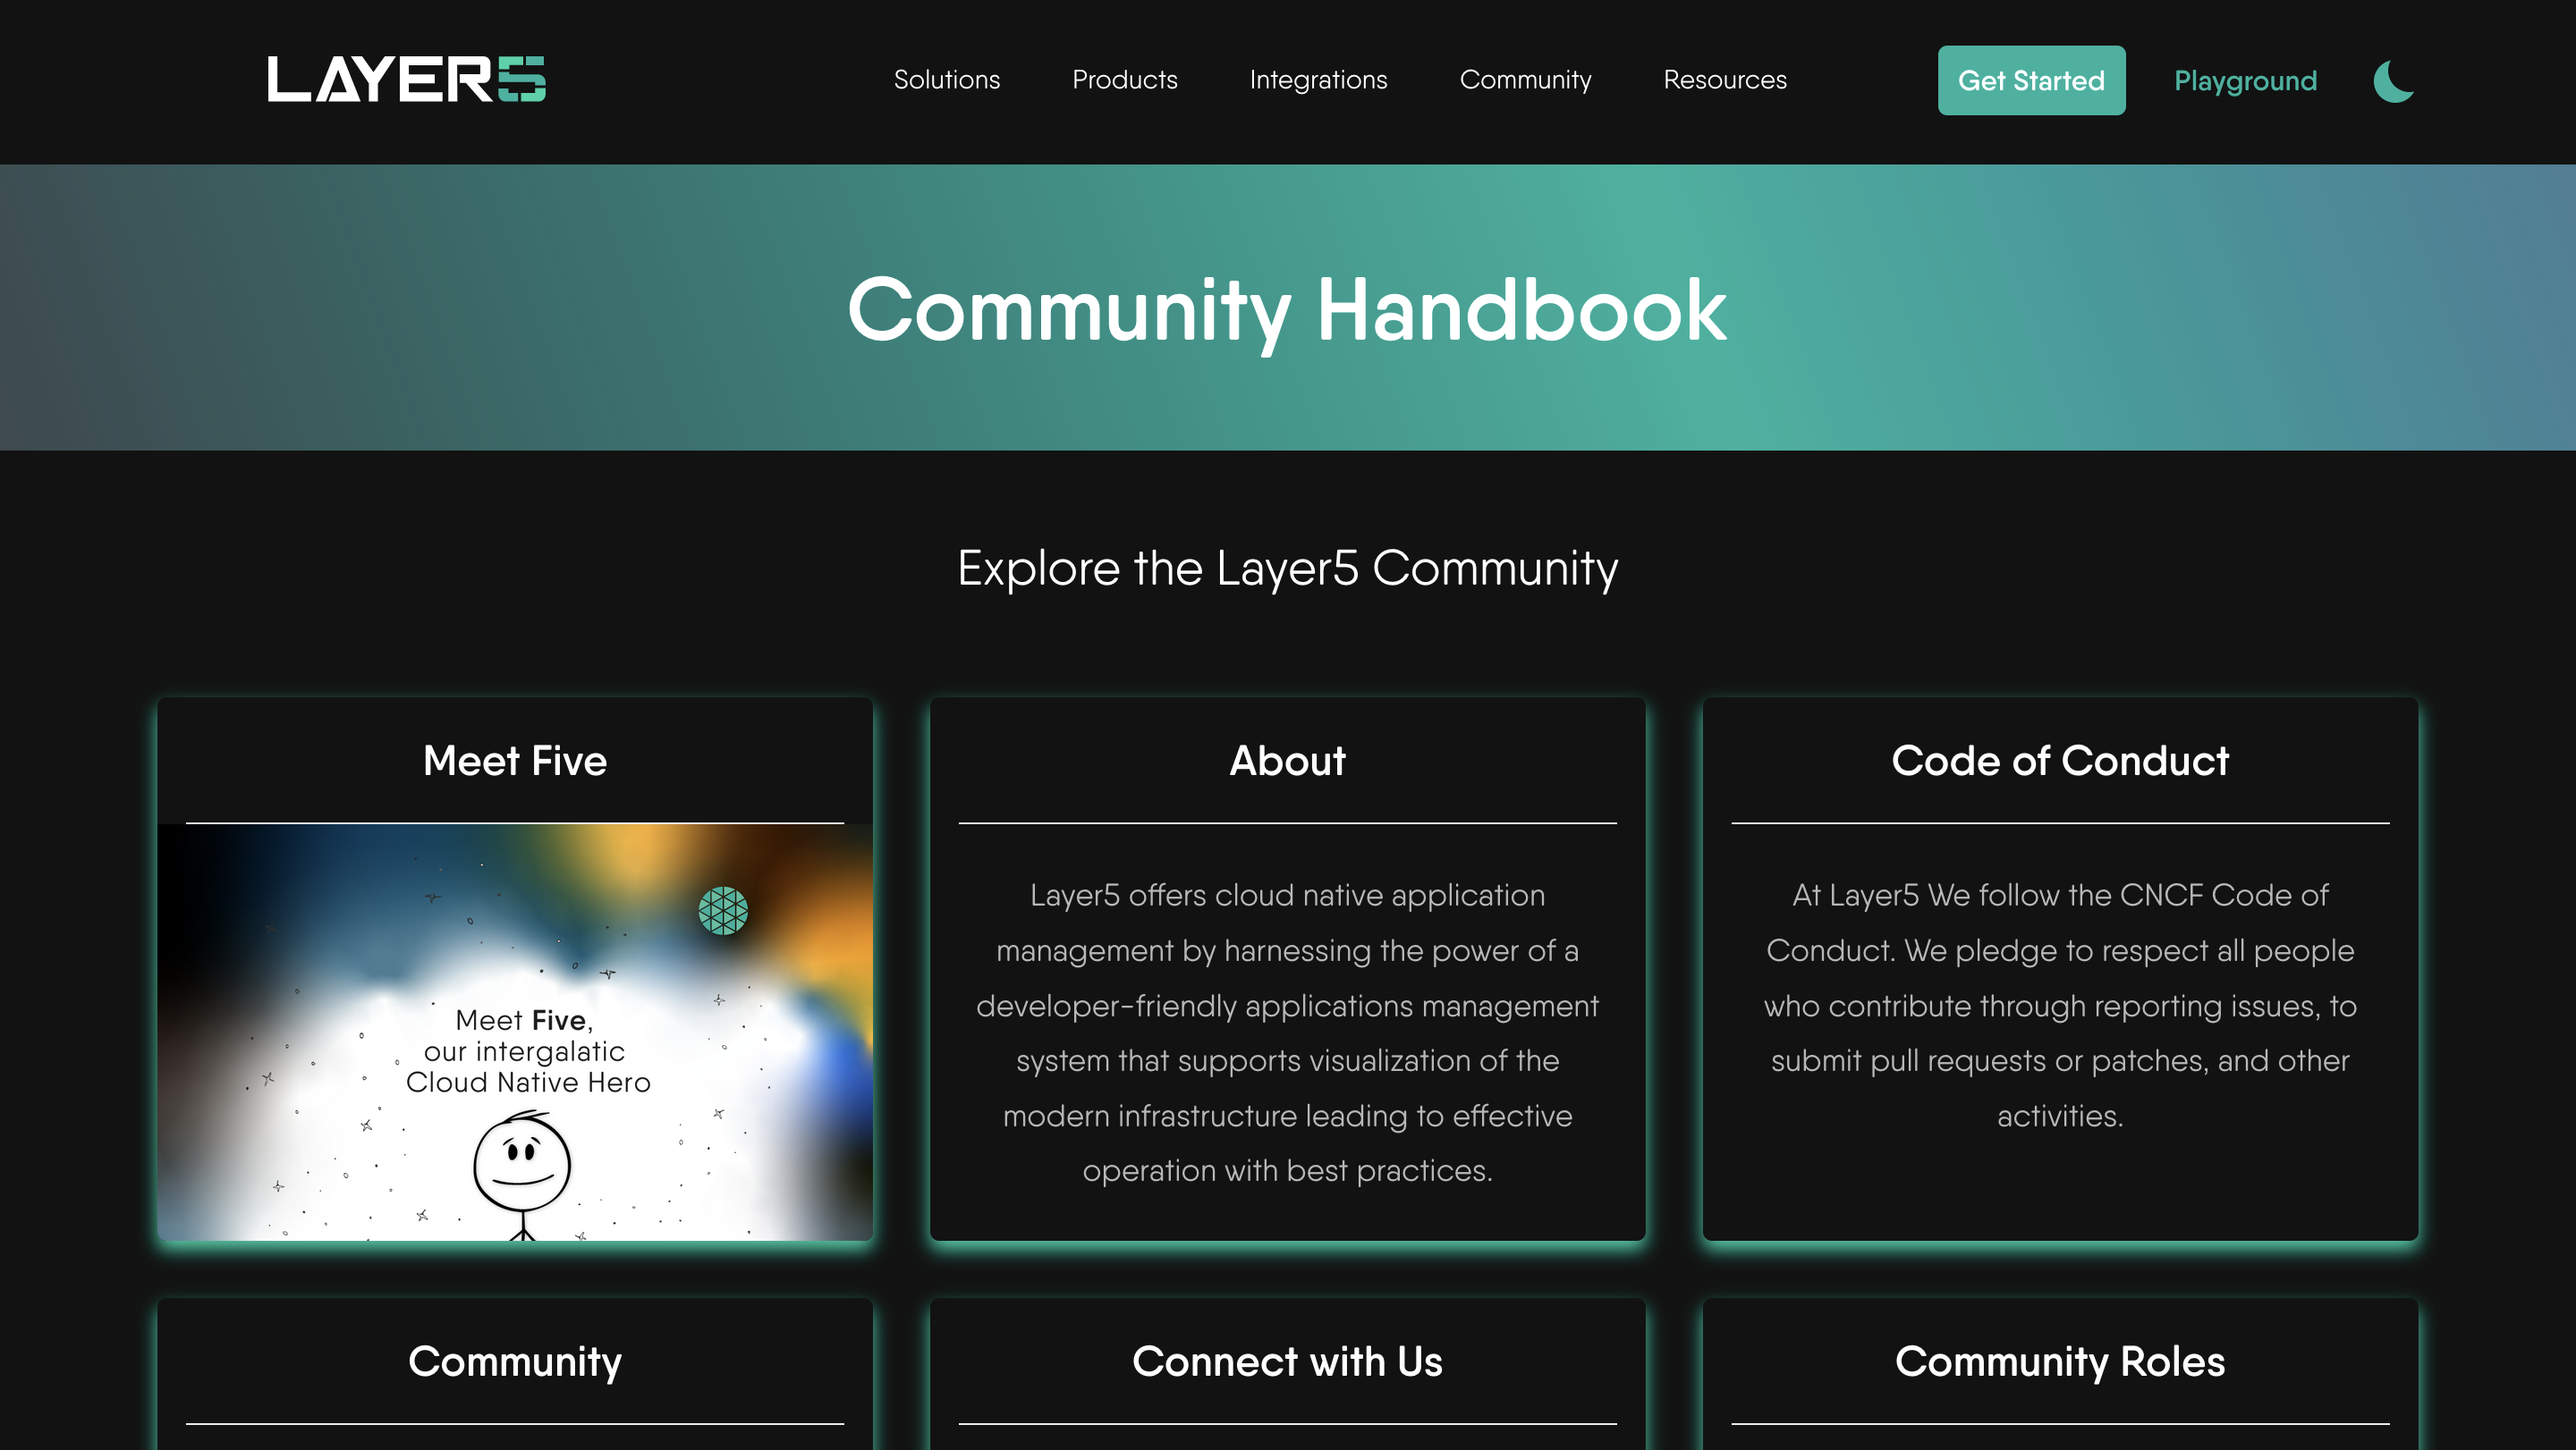
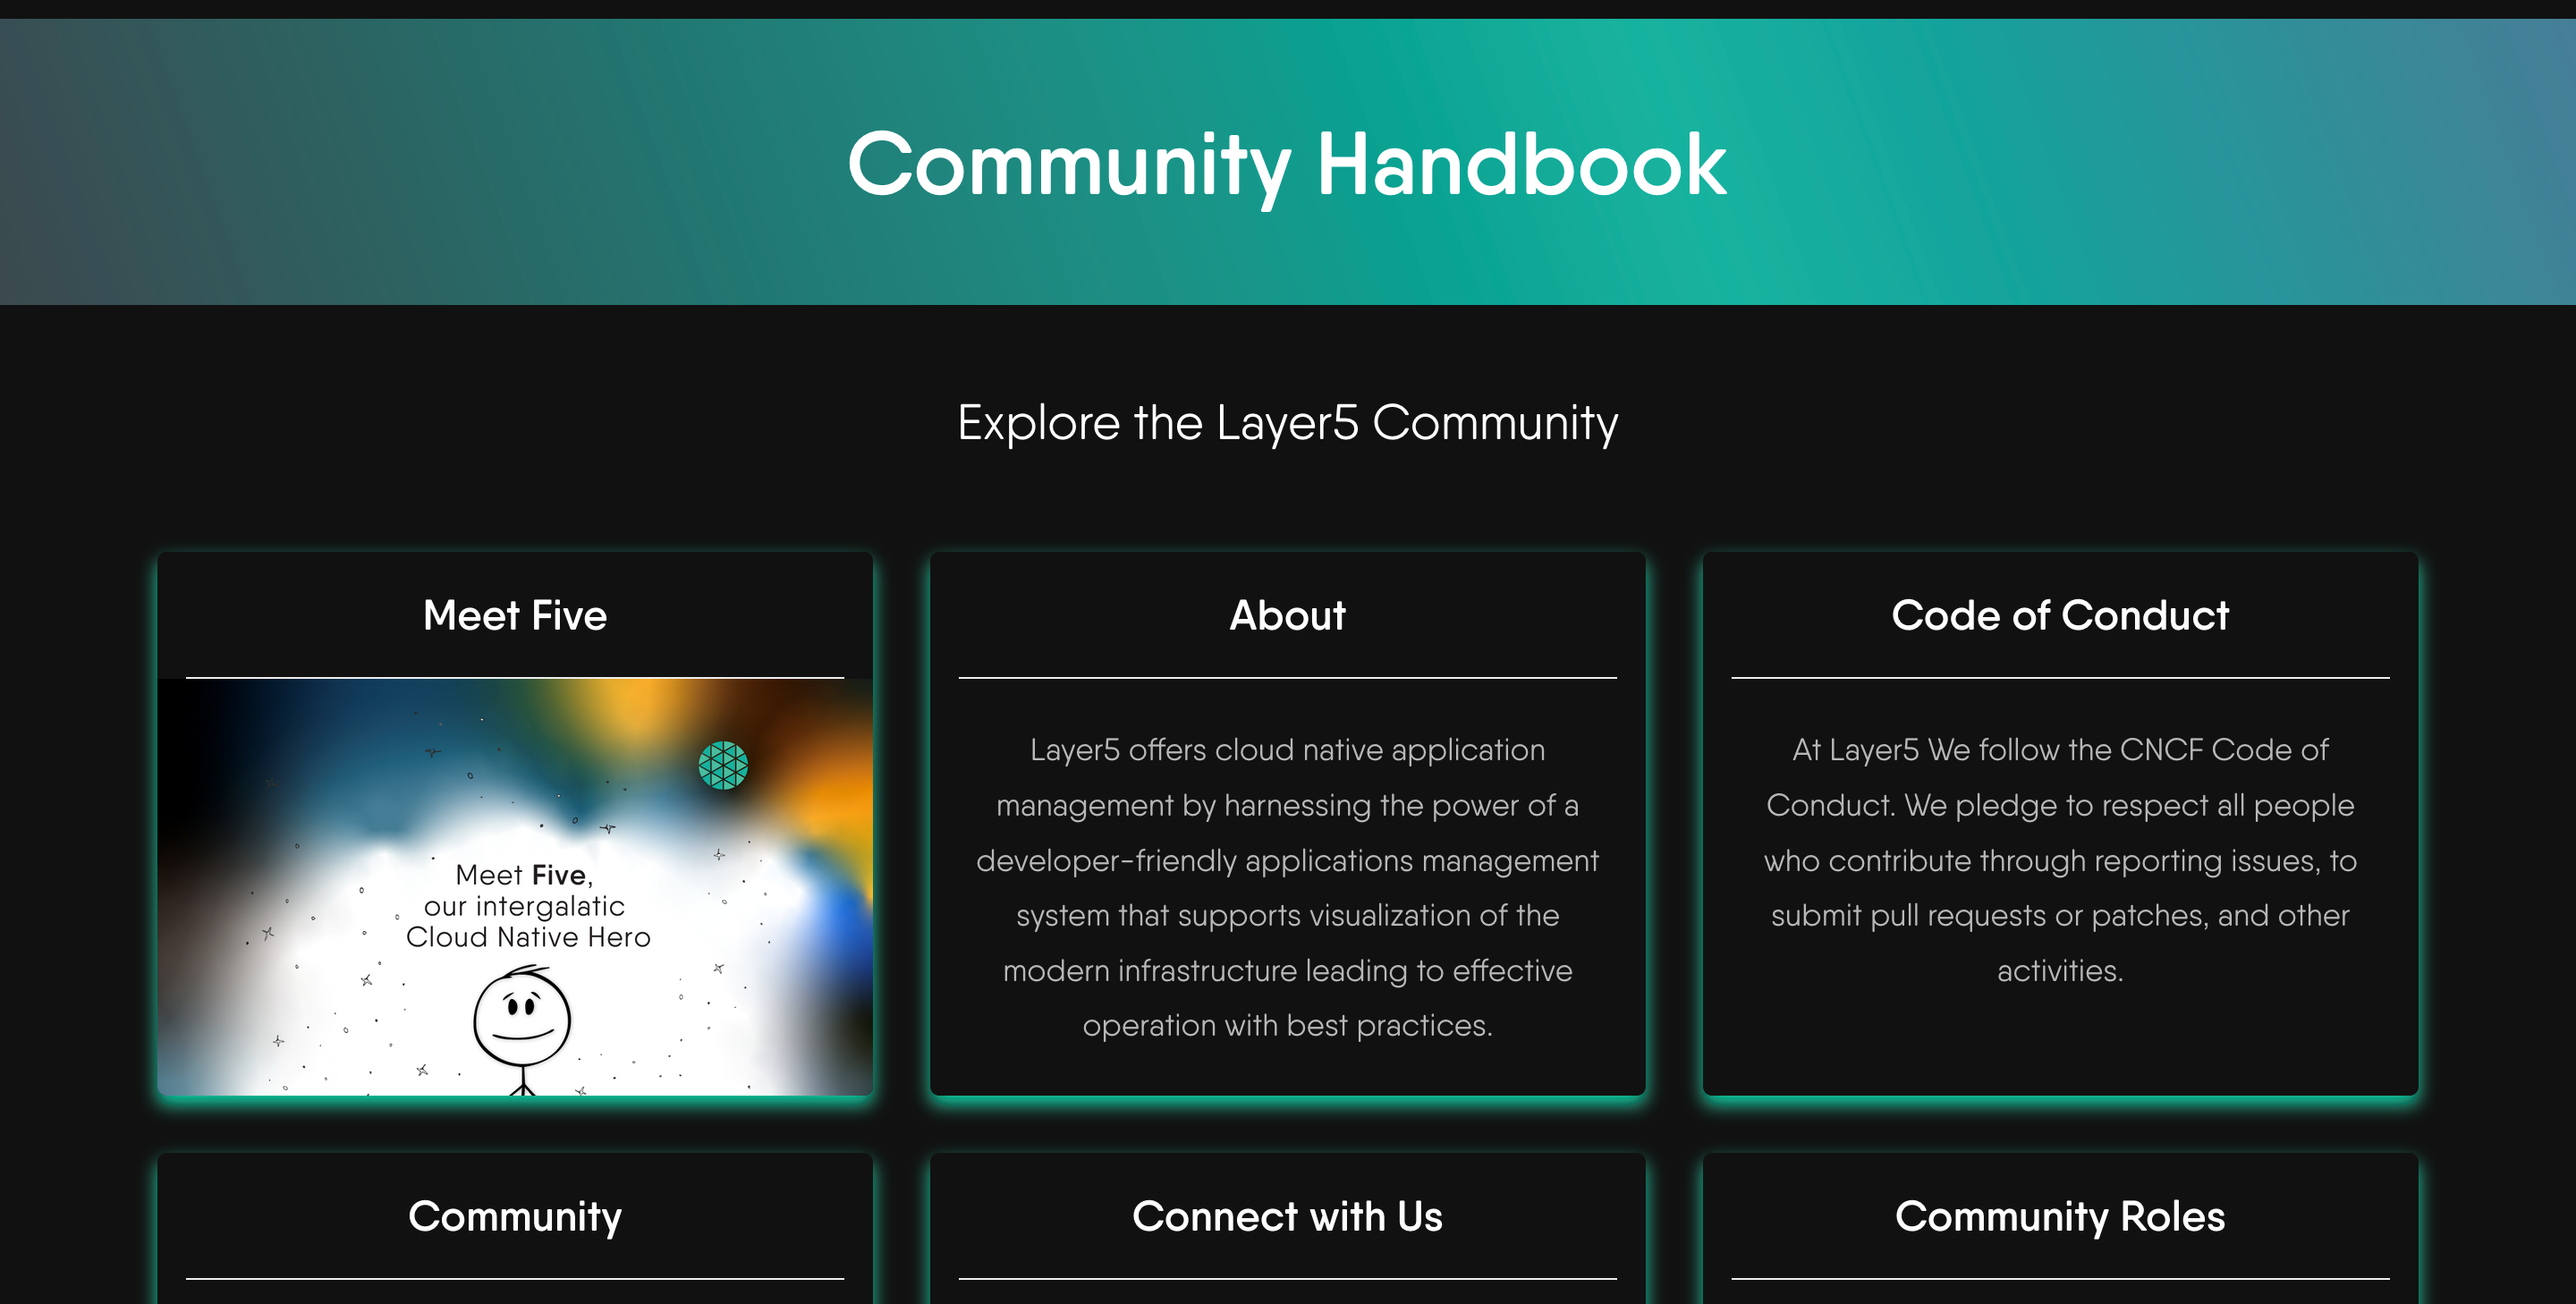
landing page update

diff --git a/assets/scss/_landing_project.scss b/assets/scss/_landing_project.scss
@@ -1,7 +1,14 @@
+.wrapper {
+  box-sizing: border-box;
+}
 .product-section {
   display: grid;
+  //justify-content: space-between;
   gap: 20px;
-  grid-template-columns: 1fr 1fr 1fr;
+  //grid-template-columns: 1fr 1fr 1fr;
+  //grid-template-columns: repeat(2, 1fr);
+  //grid-template-rows: auto auto;
+  grid-template-columns: repeat(3, 1fr);
   a {
     color: $white;
   }
@@ -12,6 +19,29 @@
     grid-template-columns: 1fr;
   }
 }
+// .box1, .box2 {
+//   grid-row: span 1;
+// }
+
+// .box3 {
+//   grid-column: span 2;
+//   grid-row: span 1;
+// }
+
+// .box4 {
+//   grid-column: span 2;
+//   grid-row: span 2;
+// }
+
+.box3 {
+  grid-row: span 2;
+}
+
+.box4 {
+  grid-column: span 2;
+  grid-row: span 1;
+}
+
 .grid-card {
   border-radius: 1rem;
   border: 2px solid #515151;
@@ -30,10 +60,10 @@
 .product-head {
   font-size: 1.5rem;
   font-weight: 500;
-  color: $white;
+  color: $primary;
   text-transform: uppercase;
   margin-bottom: 1.5rem;
-}  
+} 
 .playground-section {
   &.playground-logo {
     background-image: url("/images/logos/black-semi-opaque.svg"), url("/images/logos/meshery-light-icon.svg");
@@ -76,6 +106,7 @@
   }
 }
 .handbook-image{
+  padding-top:20px;
   width: 100%;
   height: 100%;
   display: flex;
@@ -86,14 +117,16 @@
 
   }
   img{
-    box-shadow: -8px 4px 25px 0px rgba(0, 211, 169, 0.50), 0px -8px 25px 0px rgba(0, 211, 169, 0.50);
-    border-radius: 8px;
+    //box-shadow: -8px 4px 25px 0px rgba(0, 211, 169, 0.50), 0px -8px 25px 0px rgba(0, 211, 169, 0.50);
+    border-radius: 20px;
     width: 100%;
   }
   
 }
 .handbook-text{
+  padding:20px;
   display: flex;
+  line-height: 30px;
   width: 90%;
   flex-direction: column;
   gap: 20px;
@@ -109,7 +142,7 @@
   img {
     box-shadow: -8px 4px 25px 0px rgba(0, 211, 169, 0.50), 0px -8px 25px 0px rgba(0, 211, 169, 0.50);
     
-    border-radius: 8px;
+    border-radius: 20px;
     height: 18rem;
     min-height: 70%;
    

diff --git a/content/en/_index.md b/content/en/_index.md
@@ -39,8 +39,10 @@ onmouseover="changeImage('meshery', 'images/logos/meshery-light.svg')" onmouseou
 </a>
 </div>
 
+<div class="wrapper">
 <div class= "product-section">
 
+<div class="box">
 <a href="https://playground.meshery.io">
   <div class="grid-card">
     <div class= "playground-section playground-logo">
@@ -48,8 +50,9 @@ onmouseover="changeImage('meshery', 'images/logos/meshery-light.svg')" onmouseou
       <p>Use Meshery Playground to explore a new way of DevOps - visual and collaborative configuration management for your infrastructure.</p>
     </div>
   </div>
-</a>
+</a></div>
 
+<div class="box">
 <a href="https://meshery.layer5.io/catalog">
   <div class="grid-card">
     <div class= "catalog-section catalog-logo">
@@ -57,43 +60,34 @@ onmouseover="changeImage('meshery', 'images/logos/meshery-light.svg')" onmouseou
       <p>Discover top-quality cloud native services for your infrastructure with the Cloud Native Catalog. Discover best practices and upgrade your Kubernetes management practices.</p>
     </div>
   </div>
-</a>
+</a></div>
 
-<a href="https://discuss.layer5.io">
-<div class= "forum-section">
-  <div class="grid-card">
-  <span class="product-head">Discussion forum</span>
-  <p>Cloud Native Management of developer-defined infrastructure. Join the open source-first community of cloud native engineers.</p>
-  <img src="images/landing/discuss.png" alt="Discussion Forum Image" />
-      </div>
-</div>
-</a>
+<div class="box box3">
+    <a href="https://discuss.layer5.io">
+    <div class= "forum-section">
+      <div class="grid-card">
+      <span class="product-head">Discussion forum</span>
+      <p>Cloud Native Management of developer-defined infrastructure. Join the open source-first community of cloud native engineers.</p>
+      <img src="images/landing/discuss.png" alt="Discussion Forum Image" />
+          </div>
+    </div>
+    </a></div>
 
+<div class="box box4">
 <a href="https://layer5.io/community/handbook">
-<div class= "handbook-section grid-card">
-  <div class= "handbook-text">
-    <span class="product-head">Community Handbook</span>
-    <p>Use Meshery Playground to explore a new way of DevOps - visual and collaborative configuration management for your infrastructure.</p>
-  </div>
-  <div class= "handbook-image">
-<img src="images/landing/handbook.png" alt="Community Handbook Image" />
+    <div class= "handbook-section grid-card">
+      <div class= "handbook-text">
+        <span class="product-head">Community Handbook</span>
+        <p>Use Meshery Playground to explore a new way of DevOps - visual and collaborative configuration management for your infrastructure.</p>
       </div>
+      <div class= "handbook-image">
+        <img src="images/landing/handbook.png" alt="Community Handbook Image" />
+          </div></div>
+    </a>
+    </div>
+    </div>
 
-</a>
-
-</div>
-</div>
-</div>
-</div>
-<!-- <div class="taxonomy taxonomy-terms-cloud taxo-categories">
-  <h5 class="taxonomy-title">Cloud of Categories</h5>
-  <ul class="taxonomy-terms">
-    <li><a class="taxonomy-term" href="//localhost:1313/categories/category-1/" data-taxonomy-term="category-1"><span class="taxonomy-label">category 1</span><span class="taxonomy-count">3</span></a></li>
-    <li><a class="taxonomy-term" href="//localhost:1313/categories/category-2/" data-taxonomy-term="category-2"><span class="taxonomy-label">category 2</span><span class="taxonomy-count">1</span></a></li>
-    <li><a class="taxonomy-term" href="//localhost:1313/categories/category-3/" data-taxonomy-term="category-3"><span class="taxonomy-label">category 3</span><span class="taxonomy-count">2</span></a></li>
-    <li><a class="taxonomy-term" href="//localhost:1313/categories/category-4/" data-taxonomy-term="category-4"><span class="taxonomy-label">category 4</span><span class="taxonomy-count">6</span></a></li>
-  </ul>
-</div> -->
+  </div> <!-- Wrapper close -->
 
 <div class="dash-tangle"></div>
 <div class="dash-ircle-container">
